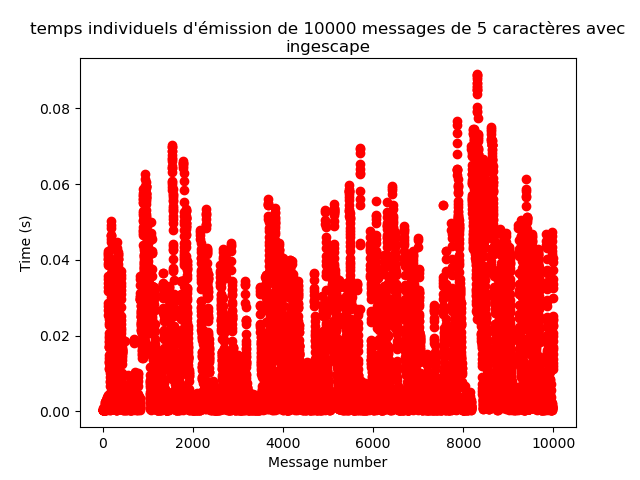
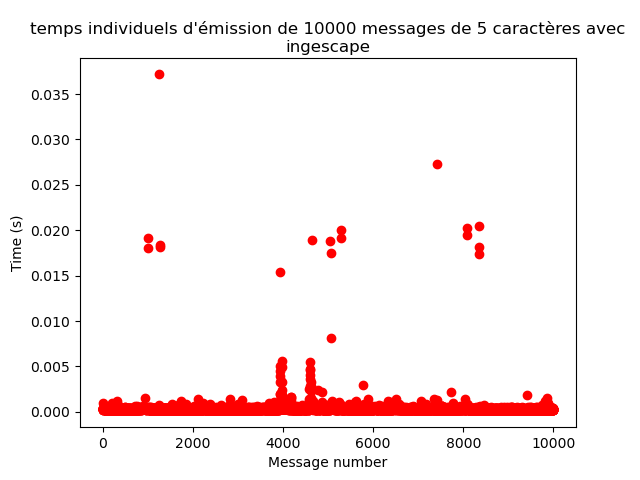
water marks

diff --git a/main_send.py b/main_send.py
@@ -52,10 +52,10 @@ def main_send(protocol, message_count, port,length, queue, logger, traitement, f
     
 
     recvrdy=""
-    while(not (str(nbr_processes-1) in recvrdy) ):
-            #print(recvrdy)
-            recvrdy = queue.get()
-            #print(recvrdy)
+    # while(not (str(nbr_processes-1) in recvrdy) ):
+    #         print(recvrdy)
+    #         recvrdy = queue.get()
+    #         print(recvrdy)
 
     if True:
         sleep(2)
@@ -72,17 +72,20 @@ def main_send(protocol, message_count, port,length, queue, logger, traitement, f
             message_rand = ''.join(random.choice(string.ascii_letters + string.digits) for _ in range(length_of_string))+"#"
 
 
-        
         for i in range(message_count):
             start_time = time.time()
             message = str(message_rand) + str(start_time)
             #message = "hello =" + str(start_time)
             #print(message)
             protocol_obj.send_message(message)
+            print(f"sending message n:{i}")
             sleep(traitement)
 
         
+        print("envoi termine")
+        sleep(20)
+        protocol_obj.stopsocket()
         for i in range(1000):
             queue.put("LAST_MESSAGE")
-        if protocol == "ivy":
+        if protocol == "ivy" :
             protocol_obj.stopsocket()

diff --git a/ingescape_protocol.py b/ingescape_protocol.py
@@ -17,7 +17,8 @@ def string_input_callback(iop_type, iop_name, value_type, value, my_data):
         #print("hey")
         t1= time.time()
         tmp = [callback_self.id, value, t1]
-        callback_self.plt_data.append(tmp)  
+        callback_self.plt_data.append(tmp) 
+        print(f"receiving message number {callback_self.id}") 
         callback_self.id+=1
     else:
         print("error callback_self")
@@ -92,6 +93,9 @@ class IngescapeProtocol(AbstractProtocol):
             igs.log_set_file(True, None)
             igs.definition_set_version("1.0")
             igs.observe_agent_events(on_agent_event_callback, self)
+            igs.net_set_high_water_marks(0)
+            igs.net_raise_sockets_limit()
+            
             
             if self.com=="PUB":
                 igs.output_create("out", igs.STRING_T, None)
@@ -119,7 +123,7 @@ class IngescapeProtocol(AbstractProtocol):
         #sleep(5)
         
         while len(self.plt_data) != message_count:
-            print(len(self.plt_data))
+            
             pass   
         print(self.plt_data)
         print(len(self.plt_data))
